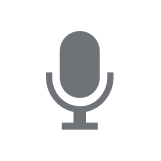
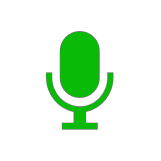
【新增】优化了首页代码，优化了icon，优化了文案。

Changed region(s): [[0.3727, 0.1863, 0.6211, 0.6211], [0.2795, 0.4348, 0.7143, 0.8075]]

diff --git a/pages/square/square.js b/pages/square/square.js
@@ -6,12 +6,34 @@ Page({
   },
   onPullDownRefresh: function () {
     this.loadData()
-    
   },
   onLoad:function(options){
     // 页面初始化 options为页面跳转所带来的参数
-    this.getLocation()
-    this.loadData()
+    var that = this
+    var requestUrl = squreUrl;
+    util.getLocation().then(res=>{
+      that.setData({
+        hasLocation: true,
+        location: util.formatLocation(res.longitude, res.latitude)
+      })
+      if (that.data.hasLocation && that.data.location.lat && that.data.location.lng) {
+        requestUrl += '?lat=' + that.data.location.lat + '&lng=' + that.data.location.lng
+      }
+      return util.getRequestWithRefreshToken(requestUrl, "pages/squre/squre")
+    }).catch(res=>{
+      return util.getRequestWithRefreshToken(requestUrl, "pages/squre/squre")
+    }).then(res=>{
+      if (res.statusCode == 200) {
+        this.setData({
+          flippedwords: util.dealData(res.data.flippedwords)
+        })
+      }
+    }).catch(res=>{
+      console.log(res);
+    }).finally(res=>{
+      wx.stopPullDownRefresh();
+    })
+
   },
   onReady:function(){
     // 页面渲染完成
@@ -54,16 +76,16 @@ Page({
       wx.stopPullDownRefresh();
     })
   },
-  getLocation: function getLocation() {
-    var that = this
-    wx.getLocation({
-      success: function (res) {
-        console.log(res)
-        that.setData({
-          hasLocation: true,
-          location: util.formatLocation(res.longitude, res.latitude)
-        })
-      }
-    })
-  },
+  // getLocation: function getLocation() {
+  //   var that = this
+  //   wx.getLocation({
+  //     success: function (res) {
+  //       console.log(res)
+  //       that.setData({
+  //         hasLocation: true,
+  //         location: util.formatLocation(res.longitude, res.latitude)
+  //       })
+  //     }
+  //   })
+  // },
 })

diff --git a/pages/mine/mine.js b/pages/mine/mine.js
@@ -37,14 +37,14 @@ var myPubFlippedwords = require('../../config').myPubFlippedwords
 var iconPath = "../../images/icons/"
 var tabs = [
   {
-    "icon": iconPath + "mark.png",
-    "iconActive": iconPath + "markHL.png",
+    "icon": iconPath + "receive.png",
+    "iconActive": iconPath + "receive_selected.png",
     "title": "我收到的",
     "extraStyle": "",
   },
   {
-    "icon": iconPath + "collect.png",
-    "iconActive": iconPath + "collectHL.png",
+    "icon": iconPath + "post.png",
+    "iconActive": iconPath + "post_selected.png",
     "title": "我发送的",
     "extraStyle": "",
   },

diff --git a/utils/util.js b/utils/util.js
@@ -461,6 +461,13 @@ function saveFile(fileUrl){
   })
 }
 
+function getLocation(){
+  var request = wxPromisify(wx.getLocation)
+  return request({
+
+  })
+}
+
 /**
  * 保存图片文件到相册，没实现
  */
@@ -537,5 +544,6 @@ module.exports = {
   uploadAudio: uploadAudio,
   chooseVideo: chooseVideo,
   getStorage: getStorage,
-  dealData: dealData
+  dealData: dealData,
+  getLocation: getLocation
 }
